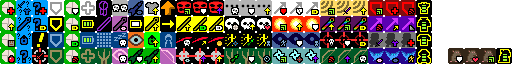
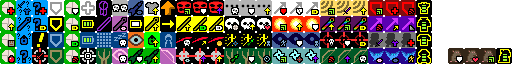
1.1: replaced restored nature with bullseye

Changed region(s): [[0.1562, 0.75, 0.1875, 1.0]]

diff --git a/core/src/main/java/com/shatteredpixel/shatteredpixeldungeon/items/weapon/SpiritBow.java b/core/src/main/java/com/shatteredpixel/shatteredpixeldungeon/items/weapon/SpiritBow.java
@@ -26,22 +26,28 @@ import com.shatteredpixel.shatteredpixeldungeon.Dungeon;
 import com.shatteredpixel.shatteredpixeldungeon.actors.Actor;
 import com.shatteredpixel.shatteredpixeldungeon.actors.Char;
 import com.shatteredpixel.shatteredpixeldungeon.actors.buffs.Buff;
+import com.shatteredpixel.shatteredpixeldungeon.actors.buffs.HoldFast;
 import com.shatteredpixel.shatteredpixeldungeon.actors.buffs.RevealedArea;
 import com.shatteredpixel.shatteredpixeldungeon.actors.hero.Hero;
 import com.shatteredpixel.shatteredpixeldungeon.actors.hero.HeroSubClass;
 import com.shatteredpixel.shatteredpixeldungeon.actors.hero.Talent;
 import com.shatteredpixel.shatteredpixeldungeon.actors.hero.abilities.huntress.NaturesPower;
+import com.shatteredpixel.shatteredpixeldungeon.effects.Beam;
+import com.shatteredpixel.shatteredpixeldungeon.effects.CellEmitter;
 import com.shatteredpixel.shatteredpixeldungeon.effects.Splash;
 import com.shatteredpixel.shatteredpixeldungeon.effects.particles.LeafParticle;
+import com.shatteredpixel.shatteredpixeldungeon.effects.particles.PurpleParticle;
 import com.shatteredpixel.shatteredpixeldungeon.items.rings.RingOfFuror;
 import com.shatteredpixel.shatteredpixeldungeon.items.rings.RingOfSharpshooting;
 import com.shatteredpixel.shatteredpixeldungeon.items.weapon.missiles.MissileWeapon;
+import com.shatteredpixel.shatteredpixeldungeon.mechanics.Ballistica;
 import com.shatteredpixel.shatteredpixeldungeon.messages.Messages;
 import com.shatteredpixel.shatteredpixeldungeon.plants.*;
 import com.shatteredpixel.shatteredpixeldungeon.scenes.CellSelector;
 import com.shatteredpixel.shatteredpixeldungeon.scenes.GameScene;
 import com.shatteredpixel.shatteredpixeldungeon.sprites.ItemSpriteSheet;
 import com.shatteredpixel.shatteredpixeldungeon.sprites.MissileSprite;
+import com.shatteredpixel.shatteredpixeldungeon.tiles.DungeonTilemap;
 import com.shatteredpixel.shatteredpixeldungeon.ui.QuickSlotButton;
 import com.watabou.noosa.audio.Sample;
 import com.watabou.noosa.particles.Emitter;
@@ -424,7 +430,36 @@ public class SpiritBow extends Weapon {
 					}
 				}
 
-				super.cast(user, dst);
+				if (user.buff(HoldFast.class) != null){
+					Ballistica beam = new Ballistica(user.pos, cell, Ballistica.STOP_SOLID);
+					curUser.sprite.parent.add(new Beam.SpiritRay(curUser.sprite.center(), DungeonTilemap.raisedTileCenterToWorld( beam.collisionPos )));
+					ArrayList<Char> chars = new ArrayList<>();
+					for (int c : beam.subPath(1, beam.dist)) {
+
+						Char ch;
+						if ((ch = Actor.findChar( c )) != null) {
+
+							chars.add( ch );
+						}
+
+						CellEmitter.center( c ).burst( PurpleParticle.BURST, Random.IntRange( 1, 2 ) );
+					}
+
+					for (Char ch : chars) {
+						int dmg = Math.round(damageRoll(user)* (0.25f * (1 + user.pointsInTalent(Talent.HOLD_FAST))));
+						proc(user, ch, dmg);
+						ch.damage( dmg, this );
+						Splash.at(ch.pos, 0xCC99FFFF, 2);
+						ch.sprite.flash();
+					}
+					user.sprite.zap( beam.collisionPos );
+					user.busy();
+					throwSound();
+					final float delay = castDelay(user, dst);
+					user.spendAndNext(delay);
+				} else {
+					super.cast(user, dst);
+				}
 			}
 		}
 	}

diff --git a/core/src/main/java/com/shatteredpixel/shatteredpixeldungeon/actors/buffs/HoldFast.java b/core/src/main/java/com/shatteredpixel/shatteredpixeldungeon/actors/buffs/HoldFast.java
@@ -21,8 +21,6 @@
 
 package com.shatteredpixel.shatteredpixeldungeon.actors.buffs;
 
-import com.shatteredpixel.shatteredpixeldungeon.Dungeon;
-import com.shatteredpixel.shatteredpixeldungeon.actors.hero.Talent;
 import com.shatteredpixel.shatteredpixeldungeon.messages.Messages;
 import com.shatteredpixel.shatteredpixeldungeon.ui.BuffIndicator;
 import com.watabou.noosa.Image;
@@ -48,12 +46,12 @@ public class HoldFast extends Buff {
 
 	@Override
 	public int icon() {
-		return BuffIndicator.ARMOR;
+		return BuffIndicator.MARK;
 	}
 
 	@Override
 	public void tintIcon(Image icon) {
-		icon.hardlight(1.9f, 2.4f, 3.25f);
+		icon.hardlight(0xb2f2ff);
 	}
 
 	@Override
@@ -63,7 +61,7 @@ public class HoldFast extends Buff {
 
 	@Override
 	public String desc() {
-		return Messages.get(this, "desc", 2*Dungeon.hero.pointsInTalent(Talent.HOLD_FAST));
+		return Messages.get(this, "desc");
 	}
 
 

diff --git a/core/src/main/java/com/shatteredpixel/shatteredpixeldungeon/actors/hero/Talent.java b/core/src/main/java/com/shatteredpixel/shatteredpixeldungeon/actors/hero/Talent.java
@@ -69,7 +69,7 @@ public enum Talent {
 	//Warrior T2
 	IRON_STOMACH(4), RESTORED_WILLPOWER(5), RUNIC_TRANSFERENCE(6), LETHAL_MOMENTUM(7, 3), IMPROVISED_PROJECTILES(8),
 	//Warrior T3
-	HOLD_FAST(9, 3), STRONGMAN(10, 3),
+	HOLD_FAST(101), STRONGMAN(10, 3),
 	//Berserker T3
 	ENDLESS_RAGE(11, 3), BERSERKING_STAMINA(12, 3), ENRAGED_CATALYST(13, 3),
 	//Gladiator T3
@@ -514,7 +514,7 @@ public enum Talent {
 				Collections.addAll(tierTalents, MYSTICAL_MEAL, MYSTICAL_UPGRADE, WIDE_SEARCH, SILENT_STEPS, IMPROVISED_PROJECTILES);
 				break;
 			case HUNTRESS:
-				Collections.addAll(tierTalents, INVIGORATING_MEAL, RESTORED_NATURE, REJUVENATING_STEPS, HEIGHTENED_SENSES, DURABLE_PROJECTILES);
+				Collections.addAll(tierTalents, INVIGORATING_MEAL, HOLD_FAST, REJUVENATING_STEPS, HEIGHTENED_SENSES, DURABLE_PROJECTILES);
 				break;
 		}
 		for (Talent talent : tierTalents){

diff --git a/core/src/main/java/com/shatteredpixel/shatteredpixeldungeon/effects/Beam.java b/core/src/main/java/com/shatteredpixel/shatteredpixeldungeon/effects/Beam.java
@@ -66,6 +66,13 @@ public class Beam extends Image {
 		}
 	}
 
+	public static class SpiritRay extends Beam{
+		public SpiritRay(PointF s, PointF e){
+			super(s, e, Effects.Type.LIGHT_RAY, 0.75f);
+			hardlight(0x99ffff);
+		}
+	}
+
 	public static class HealthRay extends Beam{
 		public HealthRay(PointF s, PointF e){
 			super(s, e, Effects.Type.HEALTH_RAY, 0.75f);

diff --git a/core/src/main/java/com/shatteredpixel/shatteredpixeldungeon/actors/hero/Hero.java b/core/src/main/java/com/shatteredpixel/shatteredpixeldungeon/actors/hero/Hero.java
@@ -465,10 +465,6 @@ public class Hero extends Char {
 			}
 			if (wepDr > 0) dr += wepDr;
 		}
-
-		if (buff(HoldFast.class) != null){
-			dr += Random.NormalIntRange(0, 2*pointsInTalent(Talent.HOLD_FAST));
-		}
 		
 		return dr;
 	}
